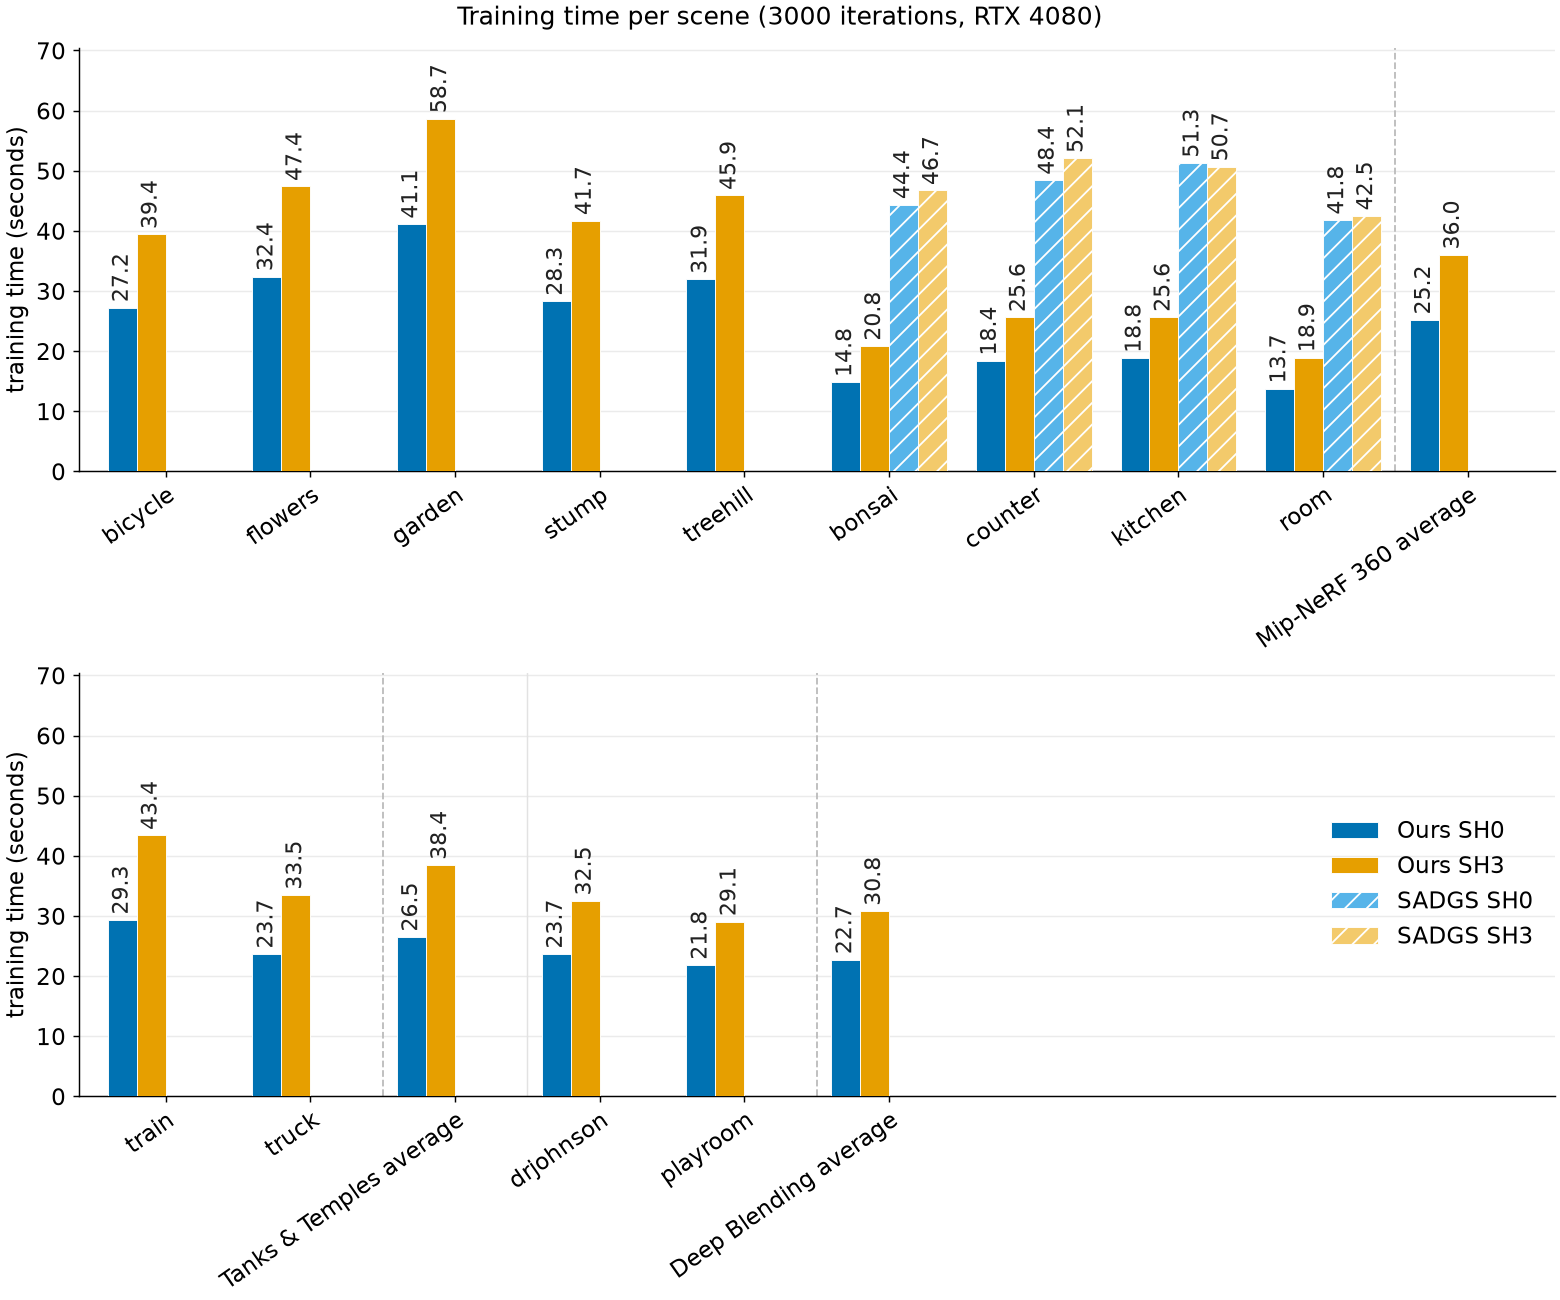
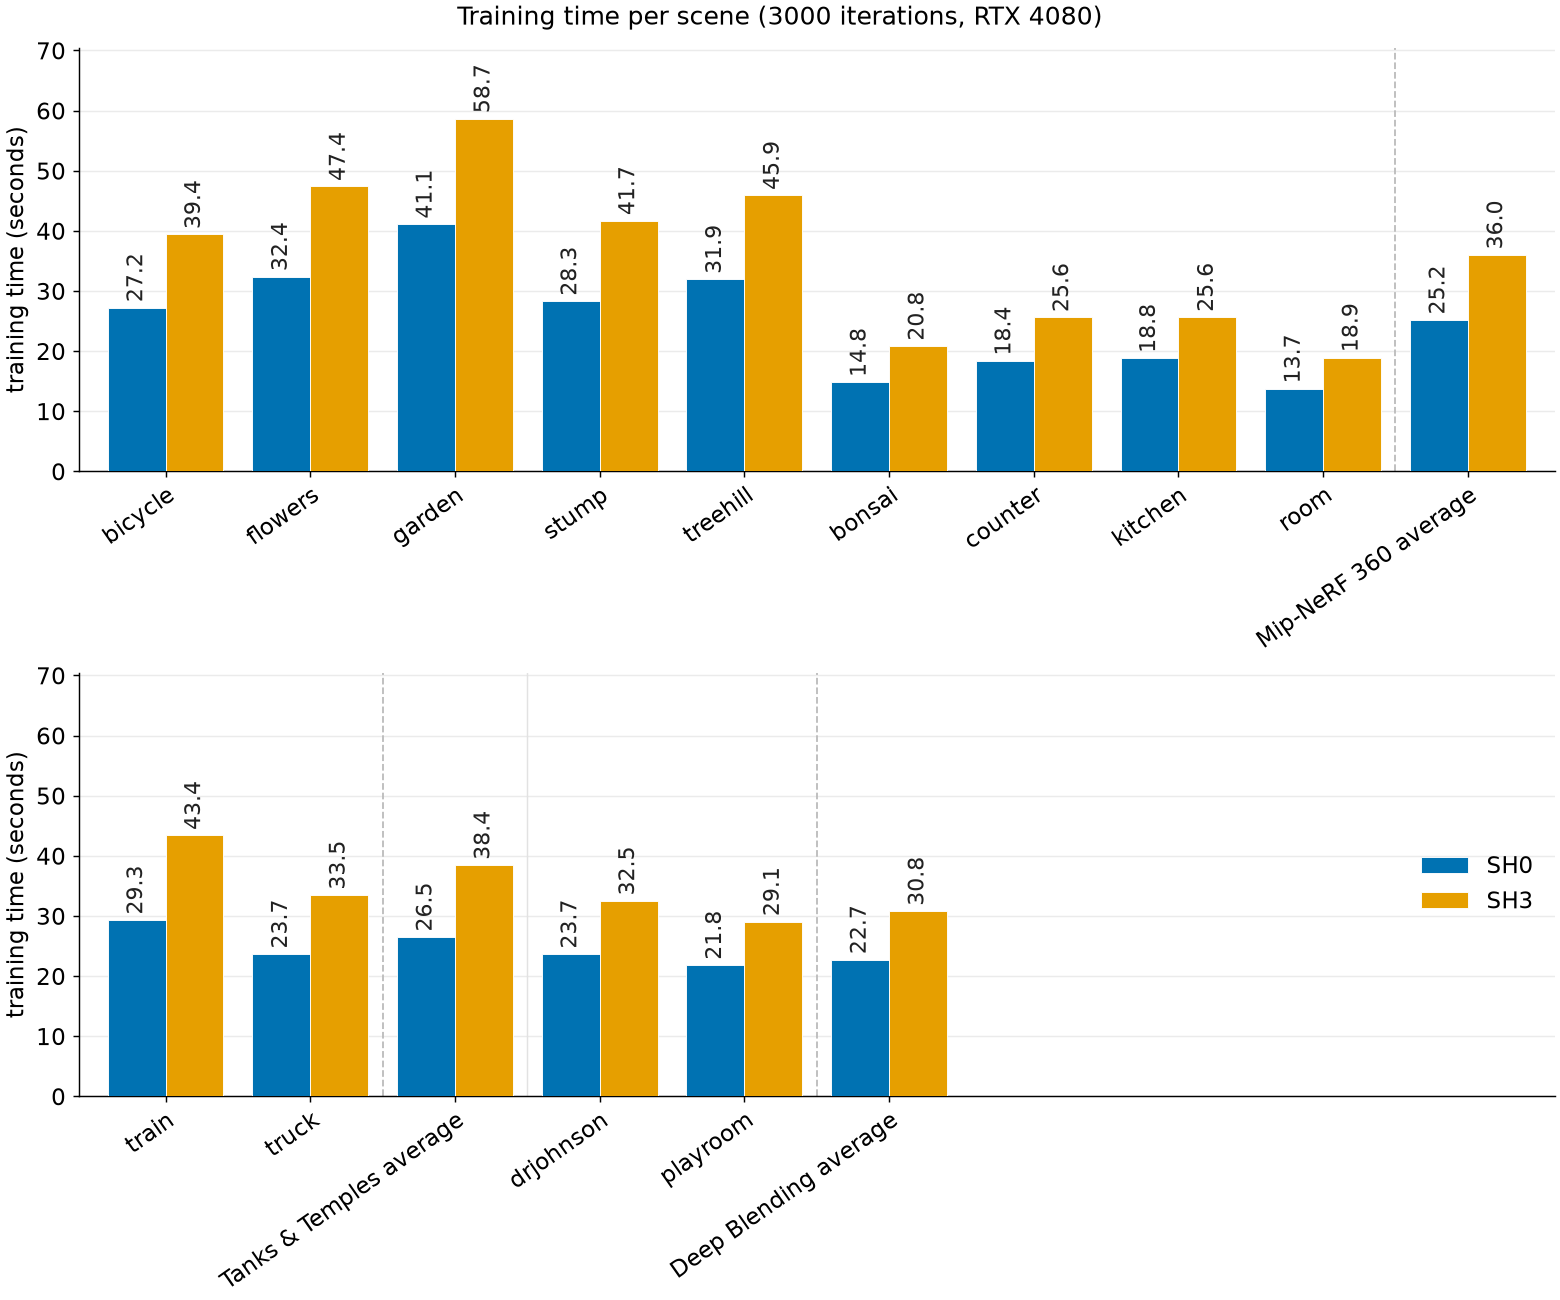
Fixed readme

Changed region(s): [[0.0615, 0.0615, 0.9846, 0.3692], [0.0615, 0.6154, 0.6154, 0.8615], [0.8615, 0.6154, 0.9846, 0.7385]]

diff --git a/scripts/plots/plot_readme_results.py b/scripts/plots/plot_readme_results.py
@@ -60,8 +60,6 @@ FRACTIONS = ("1.0", "0.5", "0.25", "0.1", "0.02")
 DENSE = "1.0"
 SH_DEGREES = (0, 3)
 PRECISIONS = ("fp32", "bf16")
-# Metrics that do not depend on the GPU, so the earlier SADGS runs can supply them.
-PORTABLE_FIELDS = ("psnr", "ssim", "lpips", "splats")
 CONVERGENCE_SCENES = ("bicycle", "kitchen", "train", "drjohnson")
 QUALITATIVE_SCENE = "bicycle"
 # The whole bicycle in that view, in render pixels (left, top, right, bottom).
@@ -70,9 +68,9 @@ QUALITATIVE_BOX = (290, 145, 950, 585)
 # the curves skip the samples taken while it recovers.
 OPACITY_RESET_ITERS = range(1200, 1400)
 
-# Okabe-Ito hues (SH0 blue, SH3 orange); the SADGS reference is the lighter tint.
-COLORS = {("ours", 0): "#0072B2", ("ours", 3): "#E69F00",
-          ("sadgs", 0): "#56B4E9", ("sadgs", 3): "#F3CA6B"}
+# Okabe-Ito hues: SH0 blue, SH3 orange.
+BLUE, ORANGE = "#0072B2", "#E69F00"
+COLORS = {0: BLUE, 3: ORANGE}
 FRACTION_RAMP = {"1.0": "#104281", "0.5": "#1c5cab", "0.25": "#2a78d6",
                  "0.1": "#5598e7", "0.02": "#86b6ef"}
 INK = "#222222"
@@ -172,13 +170,6 @@ class Grid:
                      if (result := load_sadgs_reference(scene)) is not None}
         return cls(ours, sadgs, reference)
 
-    def sadgs_for(self, sh: int, scene: str, field: str) -> Result | None:
-        """SH0 quality and splat counts come from the complete earlier reference
-        set; times, memory and SH3 from the same-GPU runs."""
-        if sh == 0 and field in PORTABLE_FIELDS:
-            return self.reference.get(scene)
-        return self.sadgs.get((sh, scene))
-
     def dense(self, sh: int, scene: str, precision: str = "fp32") -> Result | None:
         return self.ours.get((sh, precision, scene, DENSE))
 
@@ -201,23 +192,17 @@ def _style(ax) -> None:
         ax.spines[spine].set_visible(False)
 
 
-def _series(grid: Grid, field: str) -> list[tuple[str, str, str, dict[str, Result | None]]]:
-    """(label, color, hatch, per-scene result) for the four per-scene series."""
-    series = []
-    for sh in SH_DEGREES:
-        series.append((f"Ours SH{sh}", COLORS[("ours", sh)], "",
-                       {s: grid.dense(sh, s) for s in SCENES}))
-    for sh in SH_DEGREES:
-        series.append((f"SADGS SH{sh}", COLORS[("sadgs", sh)], "//",
-                       {s: grid.sadgs_for(sh, s, field) for s in SCENES}))
-    return series
+def _series(grid: Grid) -> list[tuple[str, str, dict[str, Result | None]]]:
+    """(label, color, per-scene result) for each SH degree."""
+    return [(f"SH{sh}", COLORS[sh], {s: grid.dense(sh, s) for s in SCENES})
+            for sh in SH_DEGREES]
 
 
 def plot_scene_bars(grid: Grid, field: str, ylabel: str, title: str, fmt: str, out: Path,
                     from_zero: bool = True) -> None:
     """Labelled per-scene bars, each dataset followed by its average: Mip-NeRF 360 on
     the first row, the other two datasets (and the legend) on the second."""
-    series = _series(grid, field)
+    series = _series(grid)
     rows = [("Mip-NeRF 360",), ("Tanks & Temples", "Deep Blending")]
     groups = []
     for names in rows:
@@ -235,12 +220,12 @@ def plot_scene_bars(grid: Grid, field: str, ylabel: str, title: str, fmt: str, o
         drawn = []
         for ax, row in zip(axes, groups):
             x = np.arange(len(row))
-            for index, (label, color, hatch, by_scene) in enumerate(series):
+            for index, (label, color, by_scene) in enumerate(series):
                 values = [mean_of([by_scene[s] for s in scenes], field) for _, scenes in row]
                 drawn += [v for v in values if v is not None]
                 offset = (index - (len(series) - 1) / 2) * width
                 ax.bar(x + offset, [np.nan if v is None else v for v in values], width,
-                       label=label, color=color, hatch=hatch, edgecolor="white",
+                       label=label, color=color, edgecolor="white",
                        linewidth=0.5, zorder=3)
                 for xv, value in zip(x + offset, values):
                     if value is not None:
@@ -269,8 +254,7 @@ def plot_scene_bars(grid: Grid, field: str, ylabel: str, title: str, fmt: str, o
 def plot_vram(grid: Grid, out: Path) -> None:
     """GPU memory per SH degree and Adam precision, averaged over every scene."""
     groups = [f"SH{sh}" for sh in SH_DEGREES]
-    bars = [("fp32 Adam", "fp32", COLORS[("ours", 0)]),
-            ("bf16 Adam", "bf16", COLORS[("ours", 3)])]
+    bars = [("fp32 Adam", "fp32", BLUE), ("bf16 Adam", "bf16", ORANGE)]
     x = np.arange(len(groups))
     width = 0.8 / len(bars)
     fig, ax = plt.subplots(figsize=(8, 4.8), dpi=130)
@@ -397,32 +381,6 @@ def _table(header: list[str], rows: list[list[str]], align: str = "---:") -> str
     return "\n".join(lines + [_row(r) for r in rows])
 
 
-def _scene_rows(grid: Grid, cells) -> list[list[str]]:
-    """Per-scene rows, then a bold average row per dataset."""
-    rows = [[scene] + cells({scene}) for scene in SCENES]
-    for name, scenes in DATASETS.items():
-        rows.append([f"**{name}**"] + [f"**{c}**" if c else "" for c in cells(set(scenes))])
-    return rows
-
-
-def scene_table(grid: Grid) -> str:
-    """Per scene: our PSNR, time and splat count, then SADGS's PSNR for reference."""
-    def cells(scenes: set[str]) -> list[str]:
-        ordered = [s for s in SCENES if s in scenes]
-        out = [_cell(mean_of([grid.dense(sh, s) for s in ordered], "psnr"), "{:.2f}")
-               for sh in SH_DEGREES]
-        out += [_cell(mean_of([grid.dense(sh, s) for s in ordered], "seconds"), "{:.1f}")
-                for sh in SH_DEGREES]
-        out.append(_cell(_millions(mean_of([grid.dense(0, s) for s in ordered], "splats")),
-                         "{:.2f}"))
-        out += [_cell(mean_of([grid.sadgs_for(sh, s, "psnr") for s in ordered], "psnr"), "{:.2f}")
-                for sh in SH_DEGREES]
-        return out
-    return _table(["Scene", "PSNR SH0", "PSNR SH3", "Time SH0 (seconds)", "Time SH3 (seconds)",
-                   "Splats (millions)", "SADGS PSNR SH0", "SADGS PSNR SH3"],
-                  _scene_rows(grid, cells))
-
-
 def cost_table(grid: Grid) -> str:
     """Per dataset and SH degree: training time, splat count and GPU memory."""
     rows = []
@@ -436,14 +394,16 @@ def cost_table(grid: Grid) -> str:
 
 
 def dataset_quality_table(grid: Grid) -> str:
+    """Per dataset and SH degree: held-out quality and training time."""
     rows = []
     for name, scenes in DATASETS.items():
         for sh in SH_DEGREES:
             runs = [grid.dense(sh, s) for s in scenes]
             rows.append([name, f"SH{sh}", _cell(mean_of(runs, "psnr"), "{:.2f}"),
                          _cell(mean_of(runs, "ssim"), "{:.3f}"),
-                         _cell(mean_of(runs, "lpips"), "{:.3f}")])
-    return _table(["Dataset", "SH", "PSNR", "SSIM", "LPIPS"], rows)
+                         _cell(mean_of(runs, "lpips"), "{:.3f}"),
+                         _cell(mean_of(runs, "seconds"), "{:.1f}")])
+    return _table(["Dataset", "SH", "PSNR", "SSIM", "LPIPS", "Time (seconds)"], rows)
 
 
 def _millions(value: float | None) -> float | None:
@@ -532,9 +492,8 @@ def main() -> int:
     plot_qualitative(ASSETS / "stbn_qualitative.jpg")
     write_summary_csv(grid, CSV_OUT)
     tables = [
-        "## Per scene", scene_table(grid),
+        "## Quality and training time", dataset_quality_table(grid),
         "## Time and memory", cost_table(grid),
-        "## Dataset averages", dataset_quality_table(grid),
         "## STBN SH0", stbn_table(grid, 0),
         "## STBN SH3", stbn_table(grid, 3),
         "## Adam moment precision", precision_table(grid),

diff --git a/README.md b/README.md
@@ -15,8 +15,8 @@ A fast, modular and efficient Slang-based 3DGS trainer.
 ![No CUDA required](https://img.shields.io/badge/CUDA-not%20required-2ea44f)
 ![Status](https://img.shields.io/badge/status-research-F5A623)
 
-An extensible 3D Gaussian Splatting trainer written in [Slang](https://shader-slang.org) and driven from Python through [SlangPy](https://slangpy.shader-slang.org).<br>
-On an RTX 4080 it trains a Mip-NeRF 360 scene in about 25 seconds on average (25.2 seconds at SH0 supervising every pixel, 23.5 seconds with 50% sparse supervision). The codebase has no CUDA dependencies, is directly integratable with pytorch frontend and all shaders are dispatched via SlangPy and written in Slang.
+An extensible 3D Gaussian Splatting [[1]](#ref-3dgs) trainer written in [Slang](https://shader-slang.org) and driven from Python through [SlangPy](https://slangpy.shader-slang.org).<br>
+On an RTX 4080 it trains a Mip-NeRF 360 [[2]](#ref-mipnerf360) scene in 25.2 seconds on average at SH0 and 36.0 seconds at SH3, supervising every pixel (23.5 and 34.5 seconds with 50% sparse supervision). The codebase has no CUDA dependencies, is directly integratable with pytorch frontend and all shaders are dispatched via SlangPy and written in Slang.
 
 <p align="center">
   <img src="assets/teaser.jpg" alt="Mip-NeRF 360 bicycle scene trained by this pipeline, rendered from a held-out view" width="80%">
@@ -34,9 +34,9 @@ By writing the kernels in Slang and having the whole system driven by slangpy, w
 
 ## Features
 
-- Full training from COLMAP scenes: tile-binned forward rasterization, a hand-written backward pass, Adam, and a held-out evaluation split.
-- Densification you choose per run: a gradient (AbsGS-style) path, and a structure-aware (SAD-GS-style) path that grid-splits gaussians which under-resolve local image structure.
-- Mip-Splatting 3D smoothing filter for scale-correct, anti-aliased rendering.
+- Full training from COLMAP [[3]](#ref-colmap) scenes: tile-binned forward rasterization, a hand-written backward pass, Adam [[4]](#ref-adam), and a held-out evaluation split.
+- Densification you choose per run: a gradient (AbsGS-style [[5]](#ref-absgs)) path, and a structure-aware (SAD-GS-style [[6]](#ref-sadgs)) path that grid-splits gaussians which under-resolve local image structure.
+- Mip-Splatting [[7]](#ref-mipsplatting) 3D smoothing filter for scale-correct, anti-aliased rendering.
 - Deterministic Nsight GPU Trace capture hooks for profiling the real, optimized kernels (this is Nvidia specific, but we want to allow integrating profiling also on AMD Radeon GPU Profiler (RGP)).
 
 <p align="center">
@@ -46,49 +46,30 @@ By writing the kernels in Slang and having the whole system driven by slangpy, w
 
 ## Results
 
-**On an RTX 4080, a Mip-NeRF 360 scene trains in about 25 seconds on average:** 25.2 seconds at SH0 supervising every pixel (26.50 dB), 23.5 seconds with 50% sparse supervision (26.42 dB). The indoor scenes take 13.7–18.8 seconds. Stacking pruning, bf16 optimizer state and 50% sparse supervision trains bicycle in 22.9 seconds and room in 11.6 for under 0.1 dB of PSNR, and the fastest combination we tried in 15.7 and 8.5 seconds for 0.4 and 1.0 dB (see [Speed/quality trade-offs](#speedquality-trade-offs)).
+**On an RTX 4080, a Mip-NeRF 360 scene trains in 25.2 seconds on average at SH0 (26.50 dB) and 36.0 seconds at SH3 (26.82 dB),** supervising every pixel; with 50% sparse supervision it takes 23.5 and 34.5 seconds (26.42 and 26.73 dB). The indoor scenes take 13.7–18.8 seconds at SH0. Stacking pruning, bf16 optimizer state and 50% sparse supervision trains bicycle in 22.9 seconds and room in 11.6 for under 0.1 dB of PSNR, and the fastest combination we tried in 15.7 and 8.5 seconds for 0.4 and 1.0 dB (see [Speed/quality trade-offs](#speedquality-trade-offs)).
 
-All runs: 3000 iterations, structure-aware densification with Mip-Splatting, every 8th view held out, one run each. Mip-NeRF 360 trains at quarter resolution, Tanks & Temples at 980×545 and Deep Blending at native resolution. Times cover the training loop only. Every configuration is in [docs/benchmark_results.csv](docs/benchmark_results.csv), and [scripts/plots/plot_readme_results.py](scripts/plots/plot_readme_results.py) regenerates the figures.
+All runs: 3000 iterations, structure-aware densification with Mip-Splatting, every 8th view held out, one run each. Mip-NeRF 360 trains at quarter resolution, Tanks & Temples [[8]](#ref-tandt) at 980×545 and Deep Blending [[9]](#ref-deepblending) at native resolution. Times cover the training loop only. Every configuration is in [docs/benchmark_results.csv](docs/benchmark_results.csv), and [scripts/plots/plot_readme_results.py](scripts/plots/plot_readme_results.py) regenerates the figures.
 
 ### Quality and training time
 
-Every pixel supervised. For reference, the SADGS columns show a fast existing trainer with the same kind of densification, on the same images.
+Averages over each dataset's scenes, every pixel supervised. PSNR, SSIM [[10]](#ref-ssim) and LPIPS [[11]](#ref-lpips) are measured on the held-out views; the figures below break them down per scene.
 
-| Scene | PSNR SH0 | PSNR SH3 | Time SH0 (seconds) | Time SH3 (seconds) | Splats (millions) | SADGS PSNR SH0 | SADGS PSNR SH3 |
-| --- | ---: | ---: | ---: | ---: | ---: | ---: | ---: |
-| bicycle | 24.46 | 24.85 | 27.2 | 39.4 | 5.23 | 24.46 |  |
-| flowers | 21.08 | 21.30 | 32.4 | 47.4 | 5.40 | 21.26 |  |
-| garden | 26.40 | 26.67 | 41.1 | 58.7 | 5.26 | 26.25 |  |
-| stump | 25.99 | 26.42 | 28.3 | 41.7 | 5.70 | 25.91 |  |
-| treehill | 22.19 | 22.28 | 31.9 | 45.9 | 5.55 | 22.11 |  |
-| bonsai | 30.07 | 30.55 | 14.8 | 20.8 | 2.07 | 29.72 | 30.94 |
-| counter | 27.45 | 28.00 | 18.4 | 25.6 | 1.84 | 27.31 | 28.55 |
-| kitchen | 29.99 | 30.13 | 18.8 | 25.6 | 1.68 | 29.98 | 31.03 |
-| room | 30.88 | 31.18 | 13.7 | 18.9 | 1.68 | 30.83 | 31.24 |
-| train | 20.21 | 20.48 | 29.3 | 43.4 | 3.34 |  |  |
-| truck | 24.98 | 25.25 | 23.7 | 33.5 | 2.94 |  |  |
-| drjohnson | 28.58 | 28.78 | 23.7 | 32.5 | 5.24 |  |  |
-| playroom | 29.68 | 30.02 | 21.8 | 29.1 | 4.28 |  |  |
-| **Mip-NeRF 360** | **26.50** | **26.82** | **25.2** | **36.0** | **3.82** | **26.43** |  |
-| **Tanks & Temples** | **22.59** | **22.87** | **26.5** | **38.4** | **3.14** |  |  |
-| **Deep Blending** | **29.13** | **29.40** | **22.7** | **30.8** | **4.76** |  |  |
+| Dataset | SH | PSNR | SSIM | LPIPS | Time (seconds) |
+| --- | ---: | ---: | ---: | ---: | ---: |
+| Mip-NeRF 360 | SH0 | 26.50 | 0.809 | 0.216 | 25.2 |
+| Mip-NeRF 360 | SH3 | 26.82 | 0.817 | 0.207 | 36.0 |
+| Tanks & Temples | SH0 | 22.59 | 0.839 | 0.222 | 26.5 |
+| Tanks & Temples | SH3 | 22.87 | 0.847 | 0.209 | 38.4 |
+| Deep Blending | SH0 | 29.13 | 0.903 | 0.328 | 22.7 |
+| Deep Blending | SH3 | 29.40 | 0.905 | 0.321 | 30.8 |
+
+SH3 adds about 0.3 dB on every dataset (0.27–0.32 dB) for 36–45% more training time.
 
 <p align="center">
-  <img src="assets/timing_sweep.png" alt="Training time per scene, SH0 and SH3, with SADGS for reference" width="95%">
+  <img src="assets/timing_sweep.png" alt="Training time per scene, SH0 and SH3" width="95%">
   <br>
-  <img src="assets/psnr_sweep.png" alt="Held-out PSNR per scene, SH0 and SH3, with SADGS for reference" width="95%">
+  <img src="assets/psnr_sweep.png" alt="Held-out PSNR per scene, SH0 and SH3" width="95%">
 </p>
-
-SH3 adds about 0.3 dB on every dataset (0.27–0.32 dB) for 36–45% more training time. SADGS's SH3 is higher on the indoor scenes.
-
-| Dataset | SH | PSNR | SSIM | LPIPS |
-| --- | ---: | ---: | ---: | ---: |
-| Mip-NeRF 360 | SH0 | 26.50 | 0.809 | 0.216 |
-| Mip-NeRF 360 | SH3 | 26.82 | 0.817 | 0.207 |
-| Tanks & Temples | SH0 | 22.59 | 0.839 | 0.222 |
-| Tanks & Temples | SH3 | 22.87 | 0.847 | 0.209 |
-| Deep Blending | SH0 | 29.13 | 0.903 | 0.328 |
-| Deep Blending | SH3 | 29.40 | 0.905 | 0.321 |
 
 ### Training time and GPU memory
 
@@ -111,7 +92,7 @@ Memory is reserved up front for up to 7 million splats (`--max-splats`), so it i
 
 ### Sparse supervision (STBN)
 
-`--stbn-pixel-fraction` supervises only a blue-noise subset of the pixels at each step. At 50% it costs under 0.1 dB and trains 2–7% faster, at 25% it costs 0.1–0.2 dB and trains 6–14% faster; at 2% quality drops sharply.
+`--stbn-pixel-fraction` supervises only a spatiotemporal blue-noise (STBN [[12]](#ref-stbn)) subset of the pixels at each step. At 50% it costs under 0.1 dB and trains 2–7% faster, at 25% it costs 0.1–0.2 dB and trains 6–14% faster; at 2% quality drops sharply.
 
 SH0:
 
@@ -268,9 +249,9 @@ The download helpers link to **three datasets** that can be obtained separately 
 
 | Dataset | Project / attribution | Included scene selection |
 | --- | --- | --- |
-| Mip-NeRF 360 | [Barron et al., CVPR 2022](https://jonbarron.info/mipnerf360/) | bicycle, bonsai, counter, garden, kitchen, room, stump; optional flowers and treehill |
-| Tanks & Temples | [Knapitsch et al., ACM TOG 2017](https://www.tanksandtemples.org/) | train, truck |
-| Deep Blending | [Hedman et al., ACM TOG 2018](https://visual.cs.ucl.ac.uk/pubs/deepblending/) | drjohnson, playroom |
+| Mip-NeRF 360 | [Barron et al., CVPR 2022](https://jonbarron.info/mipnerf360/) [[2]](#ref-mipnerf360) | bicycle, bonsai, counter, garden, kitchen, room, stump; optional flowers and treehill |
+| Tanks & Temples | [Knapitsch et al., ACM TOG 2017](https://www.tanksandtemples.org/) [[8]](#ref-tandt) | train, truck |
+| Deep Blending | [Hedman et al., ACM TOG 2018](https://visual.cs.ucl.ac.uk/pubs/deepblending/) [[9]](#ref-deepblending) | drjohnson, playroom |
 
 Fetch the [Mip-NeRF 360](https://jonbarron.info/mipnerf360/) dataset with the helper script (standard library only, no extra dependencies):
 
@@ -290,7 +271,7 @@ The archives are large (~12 GB for the public scenes, ~4.5 GB more for the extra
 - `--force` — re-download even if the scenes already exist.
 - `--keep-zip` — keep the downloaded `.zip` archives after extraction.
 
-Fetch the **Tanks & Temples** and **Deep Blending** scenes (the other datasets the 3DGS papers report on) with a second helper. Both ship in one ~650 MB archive from the INRIA 3DGS authors:
+Fetch the **Tanks & Temples** and **Deep Blending** scenes (the other datasets the 3DGS papers report on) with a second helper. Both ship in one ~650 MB archive from the INRIA 3DGS authors [[1]](#ref-3dgs):
 
 ```bash
 # Both -> datasets/tandt/{train,truck} and datasets/db/{drjohnson,playroom}
@@ -327,6 +308,21 @@ pytest -q
 ```
 
 The suite covers Slang math against known inputs, gradient checks against finite differences, the CLI contract, the training schedule, and a device-creation smoke test on each backend. GPU tests are skipped automatically where no device is available.
+
+## References
+
+1. <a id="ref-3dgs"></a>Bernhard Kerbl, Georgios Kopanas, Thomas Leimkühler, George Drettakis. *3D Gaussian Splatting for Real-Time Radiance Field Rendering.* ACM Transactions on Graphics 42(4), 2023. [arXiv:2308.04079](https://arxiv.org/abs/2308.04079)
+2. <a id="ref-mipnerf360"></a>Jonathan T. Barron, Ben Mildenhall, Dor Verbin, Pratul P. Srinivasan, Peter Hedman. *Mip-NeRF 360: Unbounded Anti-Aliased Neural Radiance Fields.* CVPR 2022. [arXiv:2111.12077](https://arxiv.org/abs/2111.12077)
+3. <a id="ref-colmap"></a>Johannes L. Schönberger, Jan-Michael Frahm. *Structure-from-Motion Revisited.* CVPR 2016. [colmap.github.io](https://colmap.github.io/)
+4. <a id="ref-adam"></a>Diederik P. Kingma, Jimmy Ba. *Adam: A Method for Stochastic Optimization.* ICLR 2015. [arXiv:1412.6980](https://arxiv.org/abs/1412.6980)
+5. <a id="ref-absgs"></a>Zongxin Ye, Wenyu Li, Sidun Liu, Peng Qiao, Yong Dou. *AbsGS: Recovering Fine Details for 3D Gaussian Splatting.* arXiv preprint, 2024. [arXiv:2404.10484](https://arxiv.org/abs/2404.10484)
+6. <a id="ref-sadgs"></a>Linjie Lyu, Ayush Tewari, Jianchun Chen, Thomas Leimkühler, Christian Theobalt. *Faster 3D Gaussian Splatting Convergence via Structure-Aware Densification.* SIGGRAPH 2026. [arXiv:2604.28016](https://arxiv.org/abs/2604.28016)
+7. <a id="ref-mipsplatting"></a>Zehao Yu, Anpei Chen, Binbin Huang, Torsten Sattler, Andreas Geiger. *Mip-Splatting: Alias-free 3D Gaussian Splatting.* CVPR 2024. [arXiv:2311.16493](https://arxiv.org/abs/2311.16493)
+8. <a id="ref-tandt"></a>Arno Knapitsch, Jaesik Park, Qian-Yi Zhou, Vladlen Koltun. *Tanks and Temples: Benchmarking Large-Scale Scene Reconstruction.* ACM Transactions on Graphics 36(4), 2017. [tanksandtemples.org](https://www.tanksandtemples.org/)
+9. <a id="ref-deepblending"></a>Peter Hedman, Julien Philip, True Price, Jan-Michael Frahm, George Drettakis, Gabriel Brostow. *Deep Blending for Free-Viewpoint Image-Based Rendering.* ACM Transactions on Graphics 37(6), 2018. [Project page](https://repo-sam.inria.fr/fungraph/deep-blending/)
+10. <a id="ref-ssim"></a>Zhou Wang, Alan C. Bovik, Hamid R. Sheikh, Eero P. Simoncelli. *Image Quality Assessment: From Error Visibility to Structural Similarity.* IEEE Transactions on Image Processing 13(4):600–612, 2004. [Project page](https://www.cns.nyu.edu/~lcv/ssim/)
+11. <a id="ref-lpips"></a>Richard Zhang, Phillip Isola, Alexei A. Efros, Eli Shechtman, Oliver Wang. *The Unreasonable Effectiveness of Deep Features as a Perceptual Metric.* CVPR 2018. [arXiv:1801.03924](https://arxiv.org/abs/1801.03924)
+12. <a id="ref-stbn"></a>Alan Wolfe, Nathan Morrical, Tomas Akenine-Möller, Ravi Ramamoorthi. *Scalar Spatiotemporal Blue Noise Masks.* Eurographics Symposium on Rendering (EGSR) 2022. [arXiv:2112.09629](https://arxiv.org/abs/2112.09629)
 
 ## License
 
